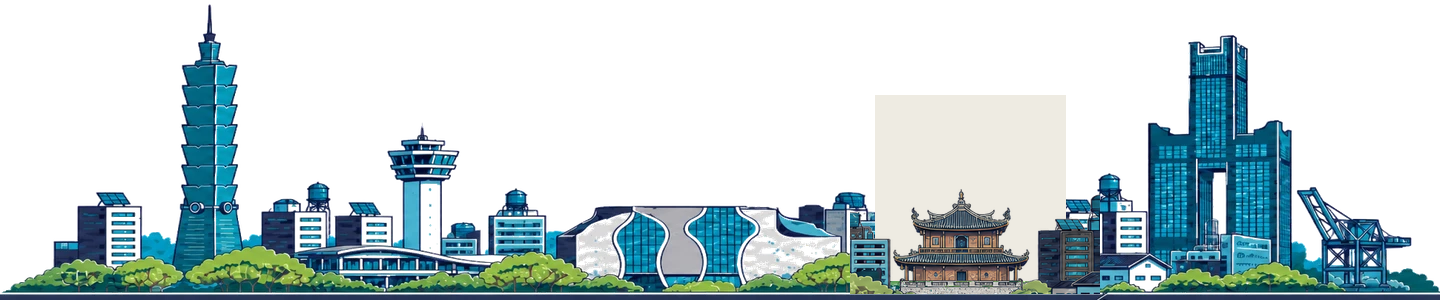
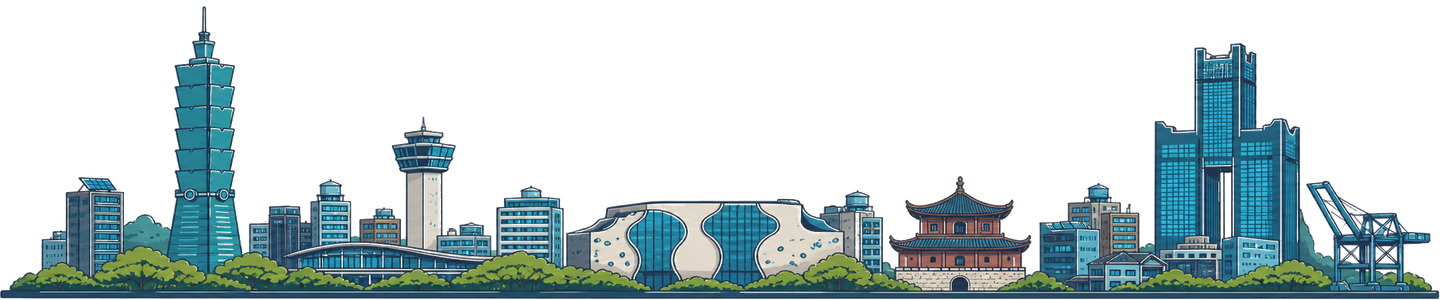
fix(site): regenerate coherent skyline artwork

diff --git a/progress.md b/progress.md
@@ -142,6 +142,13 @@ Slogan:「面對城市的下一個十年，六都市長準備好了嗎？」
 - 公開驗證：公開網址在 1200px 與 390px 均確認兩張圖完整載入，尺寸分別為 `1200×250` 與 `390×81.25`，沒有水平溢出；公開截圖確認赤崁樓下方的底端水平線已與左右兩側連續。
 - 後續：等待 Joseph 指定下一個明確範圍；正式團體資料到位後，人工確認數量與完整名稱。
 
+## Phase 12 天際線完整重生成（本機驗證完成，待公開部署，2026-09-01）
+- What：放棄前一階段以舊圖加上局部臺南前景的合成方式，重新生成完整的日間與夜間天際線；兩張圖均從樹叢、水岸、建築到最底端水平線一起生成，再整理為透明背景的 `1440×300` WebP。
+- Why：局部合成雖然修正了赤崁樓辨識度，卻讓樹叢、水岸與舊圖元素難以銜接，並造成底線斷裂。這次以完整重生成的單一畫面處理，避免保留舊圖像素或局部補丁。
+- What：日間與夜間均採由北到南的地標配置：臺北 101、桃園機場塔台、臺中國家歌劇院、臺南赤崁樓、高雄 85 大樓與港區起重機；屋頂元素維持少量光電板、水塔與一般屋頂的平衡。
+- 驗證：已檢查新圖預覽，兩張圖的基線從左到右連續，赤崁樓下方沒有斷點，圖片保留透明背景；`npm run test` 38 項通過；`npm run build` 通過，僅有既有字型路徑警告；`git diff --check` 通過；本機 1200px 與 390px 檢查確認兩張圖完整載入，原始尺寸為 `1440×300`、實際顯示高度分別為 250px 與 81.25px，沒有水平溢出。
+- Next：提交並推送 `main`，確認 GitHub Actions 與公開網址，再以公開網址重新檢查桌面與手機畫面。
+
 ## 待決問題（提問清單草稿）
 - 部署位置與網域、與淨零觀測站的關係
 - 簽署／連署資料更新機制（10月記者會前後要更新，靜態 rebuild 或接 Google Sheet）

diff --git a/six-counties-checkpoints.md b/six-counties-checkpoints.md
@@ -143,6 +143,14 @@
 - 公開頁面在 1200px 與 390px 均確認兩張圖完整載入，實際高度分別為 250px 與 81.25px，沒有水平溢出；公開截圖確認赤崁樓下方的底端水平線已與左右兩側連續。
 - 下一階段尚未決定，維持等待 Joseph 指定範圍。
 
+## Phase 12 本機完成紀錄
+
+- 前一階段的局部合成方式已放棄；日間與夜間天際線均重新生成完整畫面，樹叢、水岸、建築與最底端水平線不再跨圖拼接。
+- 新圖保留由北到南的地標順序：臺北 101、桃園機場塔台、臺中國家歌劇院、臺南赤崁樓、高雄 85 大樓與港區起重機；屋頂光電板、水塔與一般屋頂的數量維持平衡。
+- 兩張圖已輸出為透明背景的 `1440×300` WebP。預覽確認赤崁樓下方的底線連續，沒有局部合成造成的斷點。
+- 本機 `npm run test` 38 項通過、`npm run build` 通過，僅有既有字型路徑警告；`git diff --check` 通過；1200px 與 390px 檢查確認兩張圖完整載入，實際高度分別為 250px 與 81.25px，沒有水平溢出。
+- 尚未提交、推送或公開部署；下一步是建立提交、等待 GitHub Actions 完成，再以公開網址讀回確認。
+
 ## Phase 5 Resume Prompt
 
 ```text
